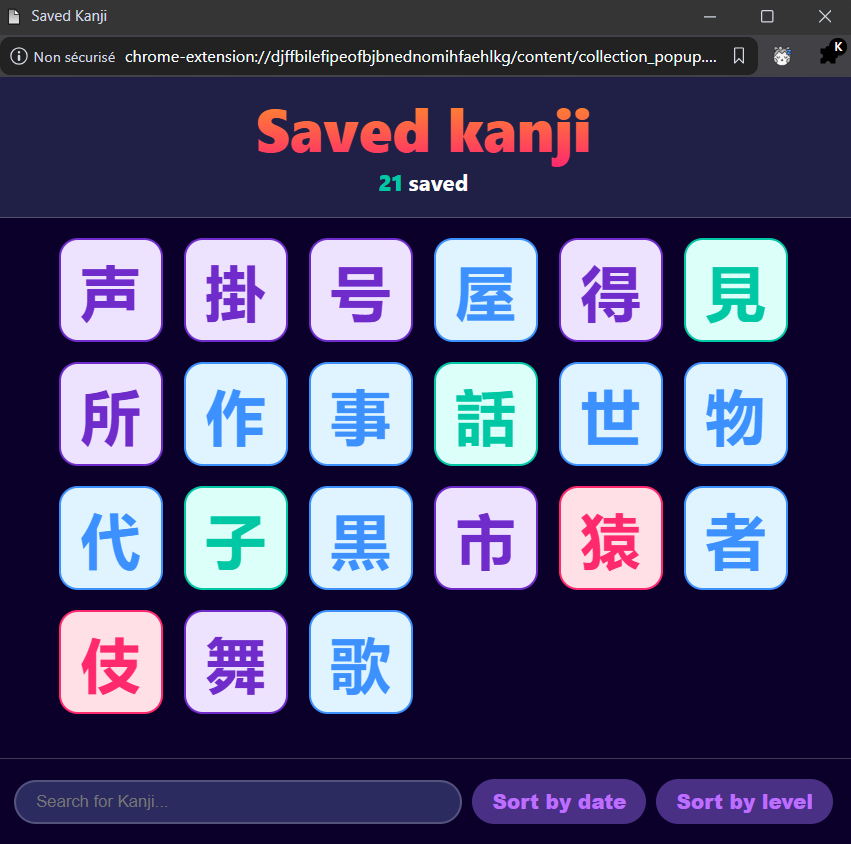
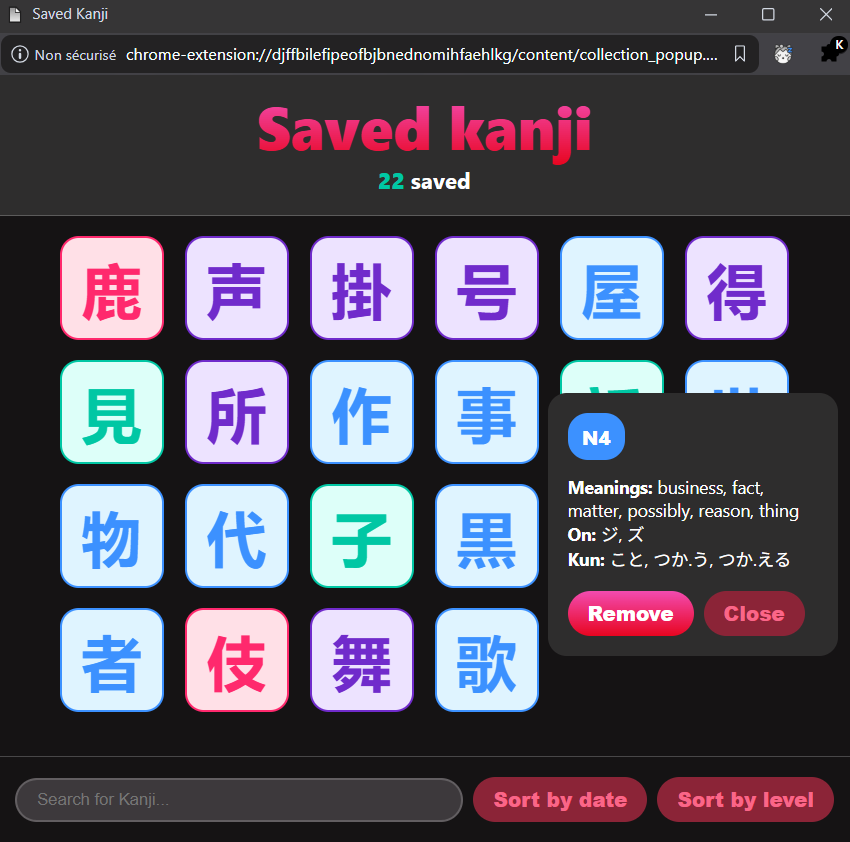
updated Readme.md

diff --git a/Readme.md b/Readme.md
@@ -4,13 +4,13 @@ This extension will allow you to select any text containing Kanji to get some qu
 
 >This is intended as a portfolio project, and because of this its UI is intentionally made to resemble Migaku's fantastic visual identity.
 
-![Demo](assets/images/screenshots/screenshot_lookup_panel_00.png)
+![Demo](assets/images/screenshots/screenshot_lookup_panel_01.png)
 
 ## A little bit of background
 
 As a long-time Japanese-learning app user (Migaku, big fan), my goal making this extension is to fill a gap I have noticed in most of the services that I've used. Many will include the functionality to scan any Japanese-language website and give you a detailed breakdown of the vocabulary contained within, but what's often lacking is information on the individual kanji those words are made up of. It will typically be up to me to go on to a different tab and look the character up by myself... let's fix that!
 
-![Demo](assets/images/screenshots/screenshot_collection_panel_00.png)
+![Demo](assets/images/screenshots/screenshot_collection_panel_01.png)
 
 ## Features
 
